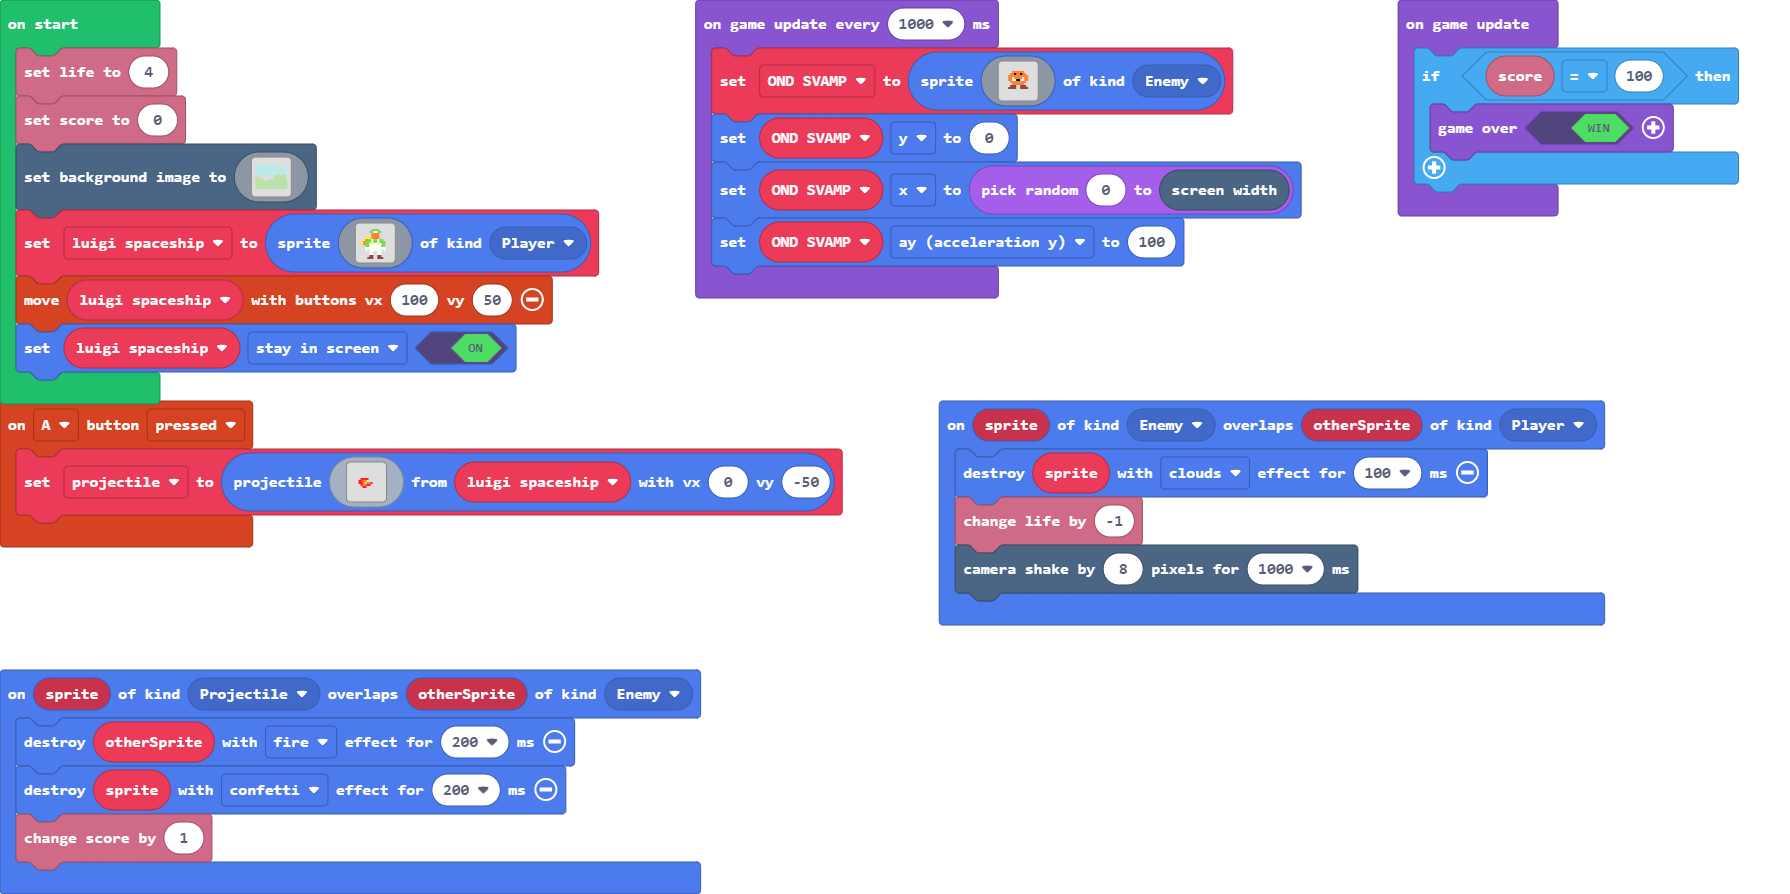
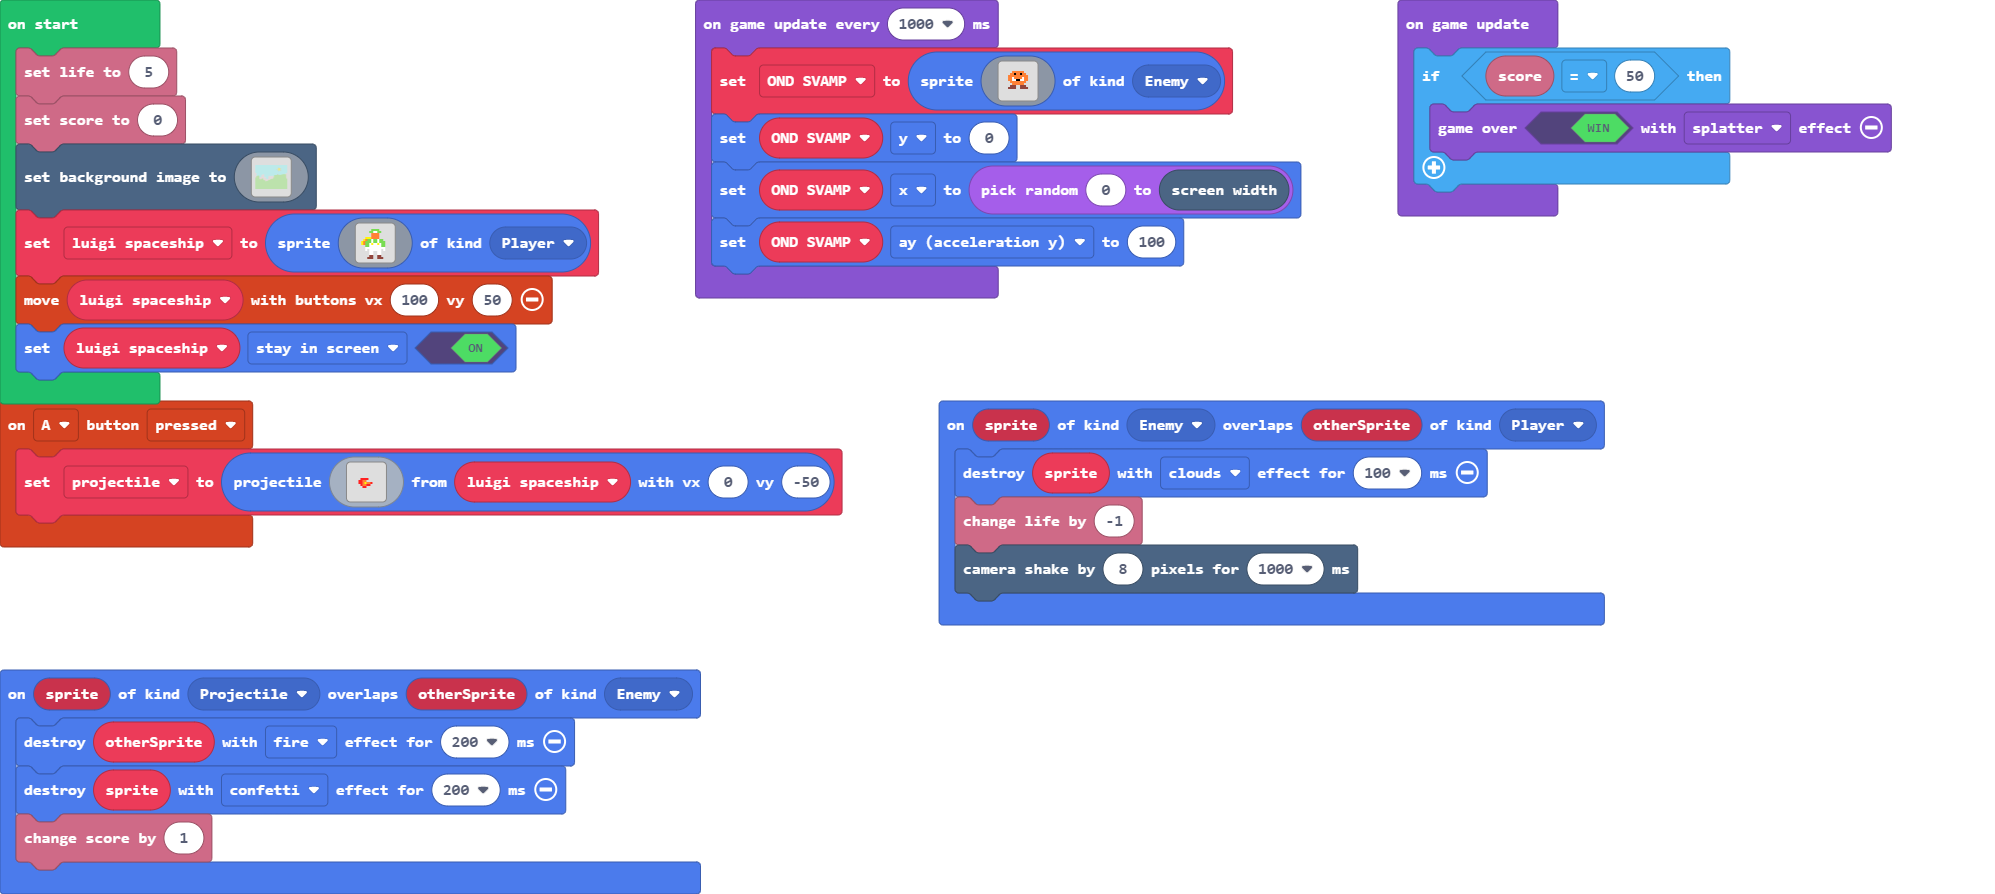
Update main.blocks, main.ts

diff --git a/main.ts b/main.ts
@@ -31,7 +31,7 @@ sprites.onOverlap(SpriteKind.Projectile, SpriteKind.Enemy, function (sprite, oth
 let OND_SVAMP: Sprite = null
 let projectile: Sprite = null
 let luigi_spaceship: Sprite = null
-info.setLife(4)
+info.setLife(5)
 info.setScore(0)
 scene.setBackgroundImage(img`
     9999999999999999999999999999999999999999999999999999999999999999999999999999999999999999999999999999999999999999999999999999999999999999999999999999999999999999
@@ -176,8 +176,8 @@ luigi_spaceship = sprites.create(img`
 controller.moveSprite(luigi_spaceship, 100, 50)
 luigi_spaceship.setFlag(SpriteFlag.StayInScreen, true)
 game.onUpdate(function () {
-    if (info.score() == 100) {
-        game.over(true)
+    if (info.score() == 50) {
+        game.over(true, effects.splatter)
     }
 })
 game.onUpdateInterval(1000, function () {
